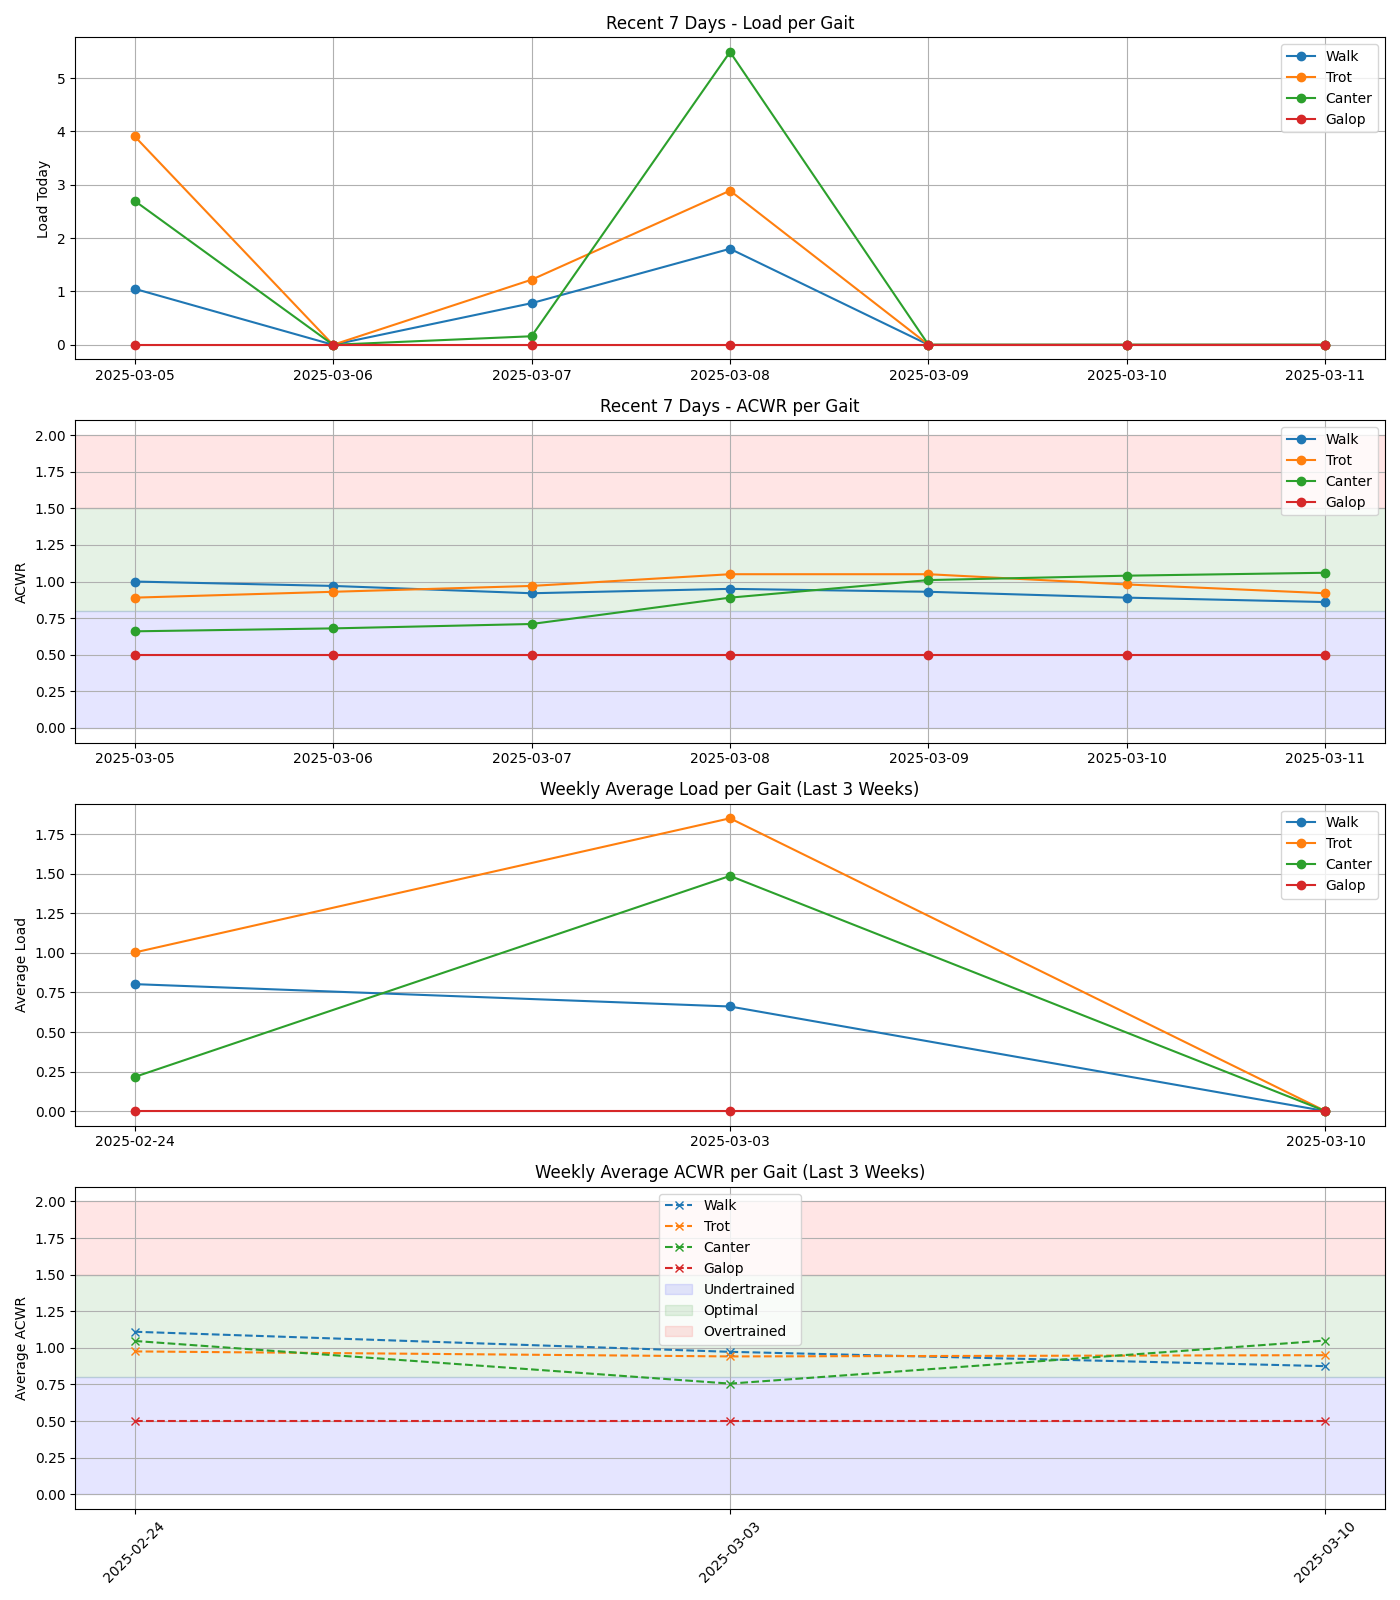
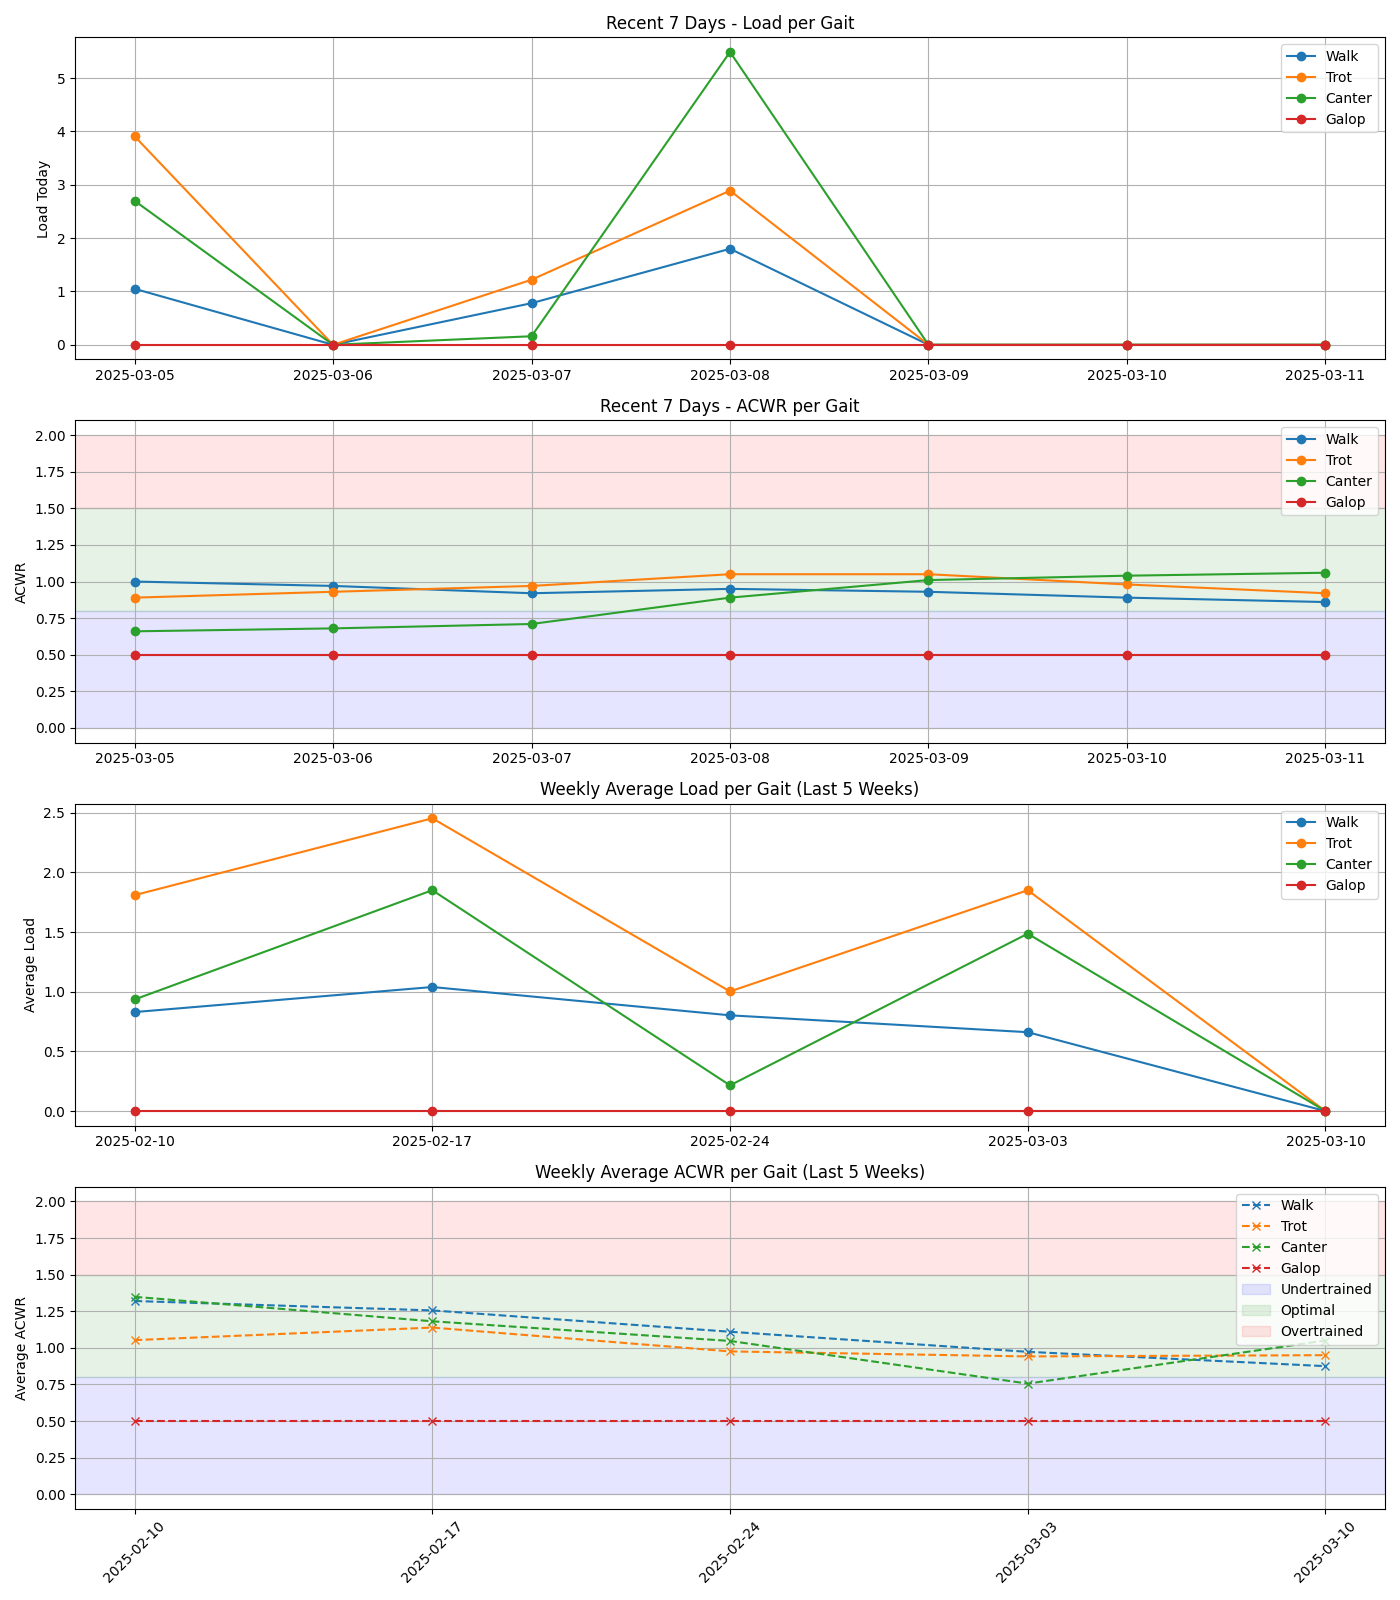
fixed bugs + commit before pulling 2nd model

diff --git a/Equine_Integration_Rubies/web app/templates/index.html b/Equine_Integration_Rubies/web app/templates/index.html
@@ -24,115 +24,48 @@
                             <option value="{{ hid }}">{{ hid }}</option>
                         {% endfor %}
                     </select>
-
-
                     <button type="submit">Receive feedback</button>
                 </form>
-
-                <div id="loading-indicator" style="display: none; color: #5CE1E6; font-weight: bold; margin: 10px 0;">
-                    Loading... Please wait.
-                </div>
             </div>
 
-            <!-- HORSE HEADING -->
-            {% if selected_horse_id %}
-                <h2 class="horse-heading">Results for Horse ID: {{ selected_horse_id }}</h2>
-            {% endif %}
+            <!-- LOADING INDICATOR -->
+            <div id="loading-indicator" style="display: none;">Loading... Please wait.</div>
 
-            <!-- FEEDBACK SECTION -->
-            {% if feedback %}
-                <div id="feedback-section" class="card">
-                    <label>Feedback:</label>
-                    <pre id="feedback" class="output-box">{{ feedback | safe }}</pre>
-
-                </div>
-            {% endif %}
-
-            <!-- VIEW MODE TOGGLE -->
-            {% if feedback %}
-            <div class="view-toggle">
-                <label for="view-mode">View Mode:</label>
-                <select id="view-mode">
-                    <option value="graphs">Graphs</option>
-                    <option value="summary">Summary</option>
-                </select>
-            </div>
-            {% endif %}
-
-
-            <!-- GRAPHS -->
-            <div id="graph-section" style="display: block;">
-                {% if chart_path %}
-                <div class="chart-grid">
-                    <div class="chart-block">
-                        <h3>Recent 7 Days - Load per Gait</h3>
-                        <img src="{{ url_for('static', filename='charts/bars_load_' + selected_horse_id + '.png') }}"
-                            alt="Recent Load Bar Chart" class="training-chart">
-                        <p class="chart-explanation">
-                            This chart displays daily training load per gait over the past 7 days. Use it to compare effort levels across different gait types.
-                        </p>
-                    </div>
-                    <div class="chart-block">
-                        <h3>Recent 7 Days - ACWR per Gait</h3>
-                        <img src="{{ url_for('static', filename='charts/bars_acwr_' + selected_horse_id + '.png') }}"
-                            alt="Recent ACWR Bar Chart" class="training-chart">
-                        <p class="chart-explanation">
-                            This chart shows the Acute:Chronic Workload Ratio for each gait. Values between 0.8 and 1.5 are considered optimal.
-                        </p>
-                    </div>
-                    <div class="chart-block">
-                        <h3>Weekly Avg Load per Gait (Last 5 Weeks)</h3>
-                        <img src="{{ url_for('static', filename='charts/bars_weekly_load_' + selected_horse_id + '.png') }}"
-                            alt="Weekly Load Bar Chart" class="training-chart">
-                        <p class="chart-explanation">
-                            Average training load per gait across the past 5 weeks. Helps evaluate long-term training trends.
-                        </p>
-                    </div>
-                    <div class="chart-block">
-                        <h3>Weekly Avg ACWR per Gait (Last 5 Weeks)</h3>
-                        <img src="{{ url_for('static', filename='charts/bars_weekly_acwr_' + selected_horse_id + '.png') }}"
-                            alt="Weekly ACWR Bar Chart" class="training-chart">
-                        <p class="chart-explanation">
-                            Average ACWR across gaits over the past 5 weeks. It highlights whether horses have been optimally trained weekly.
-                        </p>
-                    </div>
-                </div>
-                {% endif %}
-            </div>
-
-            <!-- SUMMARY -->
-            <div id="summary-section" style="display: none;" class="card">
-                <label>Summary:</label>
-                <pre id="summary" class="output-box">{{ summary_text | safe }}</pre>
-
+            <!-- RESULTS CONTAINER (replaced dynamically) -->
+            <div id="results-wrapper">
+                {% include "_results.html" %}
             </div>
 
         </div>
     </main>
 
     <script>
-        // View mode toggle
-        const viewToggle = document.getElementById('view-mode');
-        const graphSection = document.getElementById('graph-section');
-        const summarySection = document.getElementById('summary-section');
-
-        viewToggle.addEventListener('change', () => {
-            const mode = viewToggle.value;
-            graphSection.style.display = mode === 'graphs' ? 'block' : 'none';
-            summarySection.style.display = mode === 'summary' ? 'block' : 'none';
-        });
-
-        // Form loading logic
         const form = document.getElementById('horse-form');
         const loading = document.getElementById('loading-indicator');
-        const feedbackSection = document.getElementById('feedback-section');
-        const viewToggleDiv = document.querySelector('.view-toggle');
+        const resultWrapper = document.getElementById('results-wrapper');
 
-        const hideWhileLoading = [feedbackSection, graphSection, summarySection, viewToggleDiv];
-
-        form.addEventListener('submit', () => {
+        form.addEventListener('submit', async function (e) {
+            e.preventDefault();
             loading.style.display = 'block';
-            hideWhileLoading.forEach(el => el && (el.style.display = 'none'));
+            resultWrapper.innerHTML = '';
+
+            const formData = new FormData(form);
+            const response = await fetch('/run_model', {
+                method: 'POST',
+                body: formData
+            });
+
+            const html = await response.text();
+            resultWrapper.innerHTML = html;
+            loading.style.display = 'none';
+        });
+
+        document.addEventListener('change', function (e) {
+            if (e.target.id === 'view-mode') {
+                const mode = e.target.value;
+                document.getElementById('graph-section').style.display = mode === 'graphs' ? 'block' : 'none';
+                document.getElementById('summary-section').style.display = mode === 'summary' ? 'block' : 'none';
+            }
         });
     </script>
 </body>

diff --git a/Equine_Integration_Rubies/web app/templates/_results.html b/Equine_Integration_Rubies/web app/templates/_results.html
@@ -1,0 +1,62 @@
+{% if selected_horse_id %}
+    <h2 class="horse-heading">Results for Horse ID: {{ selected_horse_id }}</h2>
+{% endif %}
+
+{% if feedback %}
+    <div id="feedback-section" class="card">
+        <label>Feedback:</label>
+        <pre id="feedback" class="output-box">{{ feedback | safe }}</pre>
+    </div>
+{% endif %}
+
+{% if feedback %}
+    <div style="text-align: center;">
+        <div class="view-toggle">
+            <label for="view-mode">View Mode:</label>
+            <select id="view-mode">
+                <option value="graphs">Graphs</option>
+                <option value="summary">Summary</option>
+            </select>
+        </div>
+    </div>
+{% endif %}
+
+<div id="graph-section" style="display: block;">
+    {% if chart_path %}
+        <div class="chart-grid">
+            <div class="chart-block">
+                <h3>Recent 7 Days - Load per Gait</h3>
+                <img src="{{ url_for('static', filename='charts/bars_load_' + selected_horse_id + '.png') }}"
+                     alt="Recent Load Bar Chart" class="training-chart">
+                <p class="chart-explanation">This chart displays daily training load per gait over the past 7 days.</p>
+            </div>
+            <div class="chart-block">
+                <h3>Recent 7 Days - ACWR per Gait</h3>
+                <img src="{{ url_for('static', filename='charts/bars_acwr_' + selected_horse_id + '.png') }}"
+                     alt="Recent ACWR Bar Chart" class="training-chart">
+                <p class="chart-explanation">This chart shows the Acute:Chronic Workload Ratio for each gait.</p>
+            </div>
+            <div class="chart-block">
+                <h3>Weekly Avg Load per Gait (Last 5 Weeks)</h3>
+                <img src="{{ url_for('static', filename='charts/bars_weekly_load_' + selected_horse_id + '.png') }}"
+                    alt="Weekly Load Bar Chart" class="training-chart">
+                <p class="chart-explanation">
+                    This chart displays the average training load per gait across the last 5 weeks. Use it to identify long-term trends.
+                </p>
+            </div>
+            <div class="chart-block">
+                <h3>Weekly Avg ACWR per Gait (Last 5 Weeks)</h3>
+                <img src="{{ url_for('static', filename='charts/bars_weekly_acwr_' + selected_horse_id + '.png') }}"
+                    alt="Weekly ACWR Bar Chart" class="training-chart">
+                <p class="chart-explanation">
+                    This chart shows the average Acute:Chronic Workload Ratio for each gait over the past 5 weeks. Helps assess weekly training balance.
+                </p>
+            </div>
+        </div>
+    {% endif %}
+</div>
+
+<div id="summary-section" style="display: none;" class="card">
+    <label>Summary:</label>
+    <pre id="summary" class="output-box">{{ summary_text | safe }}</pre>
+</div>

diff --git a/Equine_Integration_Rubies/web app/static/style.css b/Equine_Integration_Rubies/web app/static/style.css
@@ -175,16 +175,19 @@ button {
 }
 
 .view-toggle {
-    margin: 30px 0 20px 0; 
+    margin: 30px 0 20px 0;
     padding: 10px 15px;
     background-color: #F3F5F9;
     border-radius: 6px;
     color: #07384D;
     font-weight: bold;
-    display: flex;
+    display: inline-flex;     /* 🔧 Changed from flex to inline-flex */
     align-items: center;
     gap: 10px;
+    justify-content: center;
+    max-width: 100%;          /* Optional: Prevent overflow */
 }
+
 
 
 .spacer {
@@ -212,6 +215,7 @@ button {
     color: #5CE1E6;
     margin: 15px 0;
     font-size: 1.3rem;
+    text-align: center;
 }
 pre.output-box {
     white-space: pre-wrap;
@@ -236,5 +240,13 @@ pre.output-box {
     max-width: 900px;  /* or whatever width you prefer */
     margin: 0 auto;
 }
+#loading-indicator {
+    font-size: 1.4rem;
+    text-align: center;
+    color: #5CE1E6;
+    font-weight: bold;
+    margin: 20px 0;
+}
+
 
 

diff --git a/Equine_Integration_Rubies/web app/app.py b/Equine_Integration_Rubies/web app/app.py
@@ -17,40 +17,33 @@ def home():
                            feedback=None,
                            chart_path=None)
 
-
 @app.route('/run_model', methods=['POST'])
 def run_model():
     horse_id = request.form['horse_id']
     horse_ids = get_all_horse_ids()
-    
+
     summary_text = get_summary_for_horse(horse_id)
 
     if summary_text.startswith("No data available") or "Summary generation failed" in summary_text:
-        return render_template("index.html",
-                       horse_ids=horse_ids,
-                       summary_text=summary_text,
-                       feedback=feedback,
-                       chart_path=f"charts/{chart_filename}",
-                       selected_horse_id=horse_id)
+        return render_template("_results.html",
+                               horse_ids=horse_ids,
+                               summary_text=summary_text,
+                               feedback=None,
+                               chart_path=None,
+                               selected_horse_id=horse_id)
 
     feedback = generate_local_feedback(summary_text)
 
-    # Generate the summary chart
     df_horse = get_horse_dataframe(horse_id)
-    chart_filename = f"training_summary_{horse_id}.png"
-    chart_path = os.path.join("static", "charts", chart_filename)
-    plot_training_summary(df_horse, chart_path)
-
+    plot_training_summary(df_horse, os.path.join("static", "charts", f"training_summary_{horse_id}.png"))
     plot_training_summary_bars(df_horse, output_dir="static/charts", horse_id=horse_id)
 
-    return render_template("index.html",
-                       horse_ids=horse_ids,
-                       summary_text=summary_text,
-                       feedback=feedback,
-                       chart_path=f"charts/{chart_filename}",
-                       selected_horse_id=horse_id)
-
-
+    return render_template("_results.html",
+                           horse_ids=horse_ids,
+                           summary_text=summary_text,
+                           feedback=feedback,
+                           chart_path=f"charts/training_summary_{horse_id}.png",
+                           selected_horse_id=horse_id)
 
 if __name__ == '__main__':
     app.run(debug=True)
